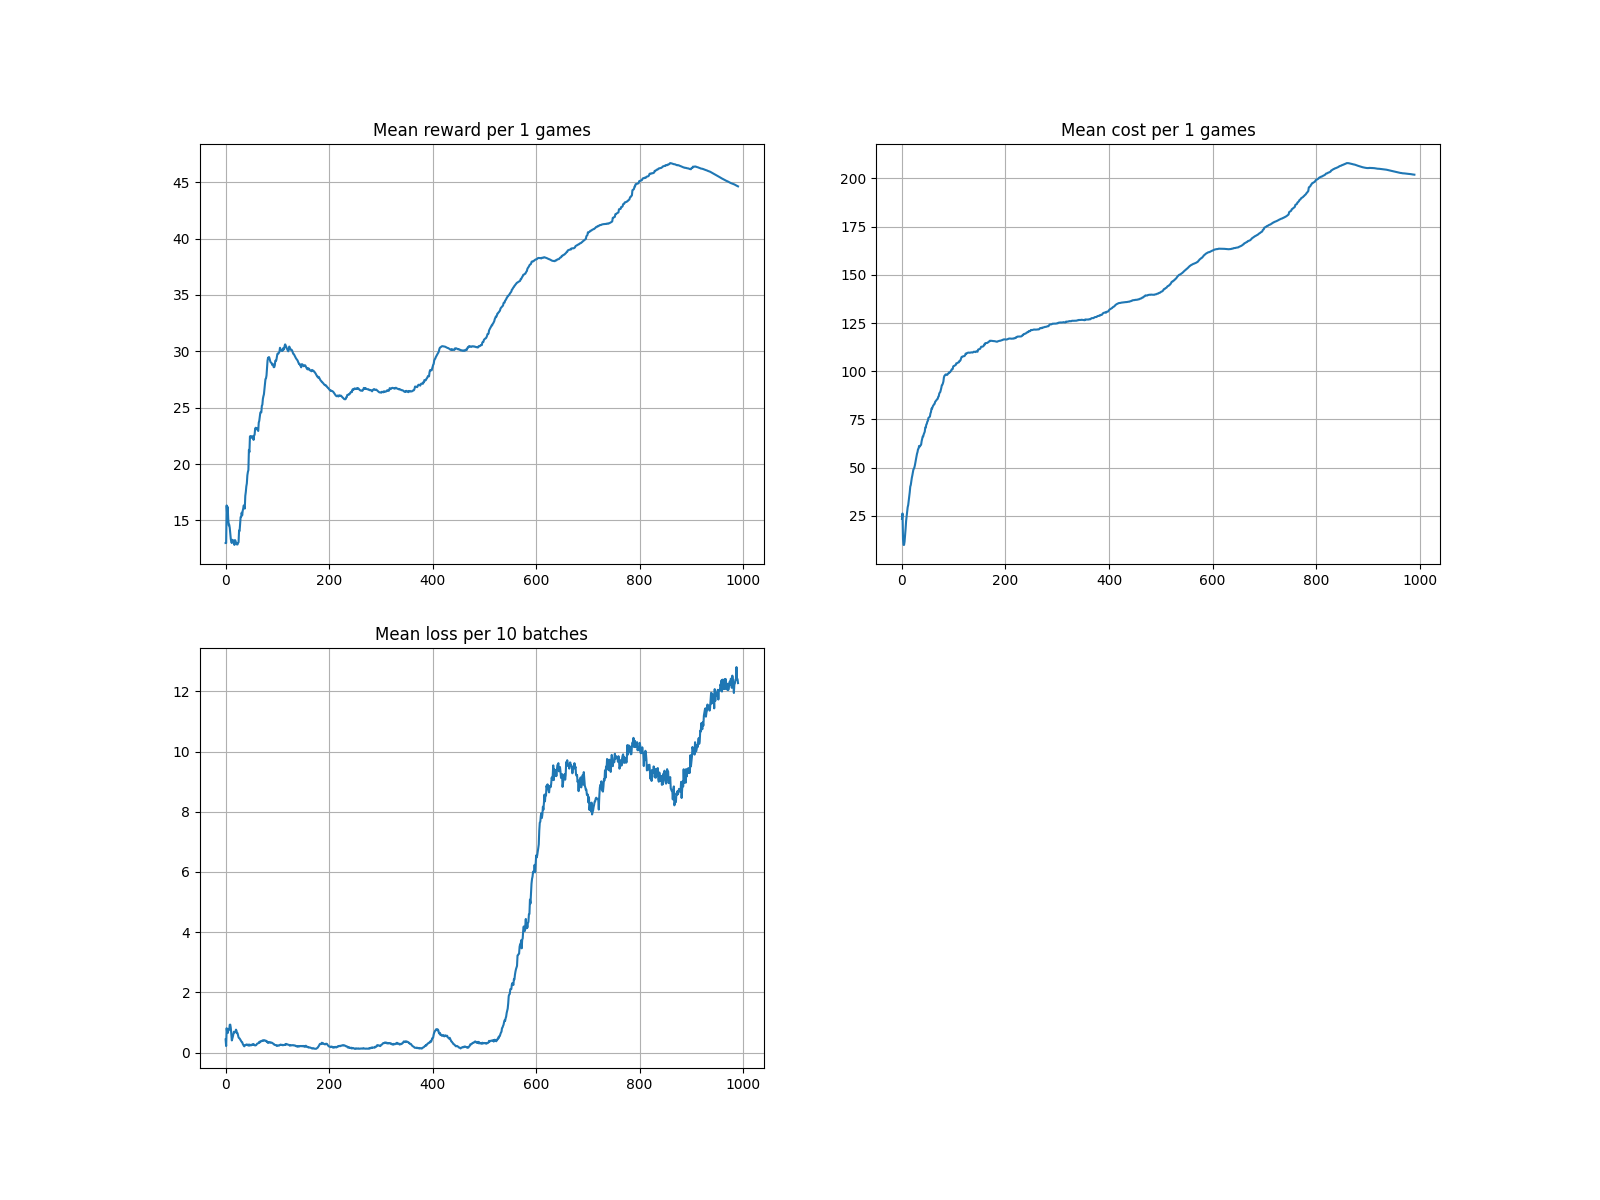
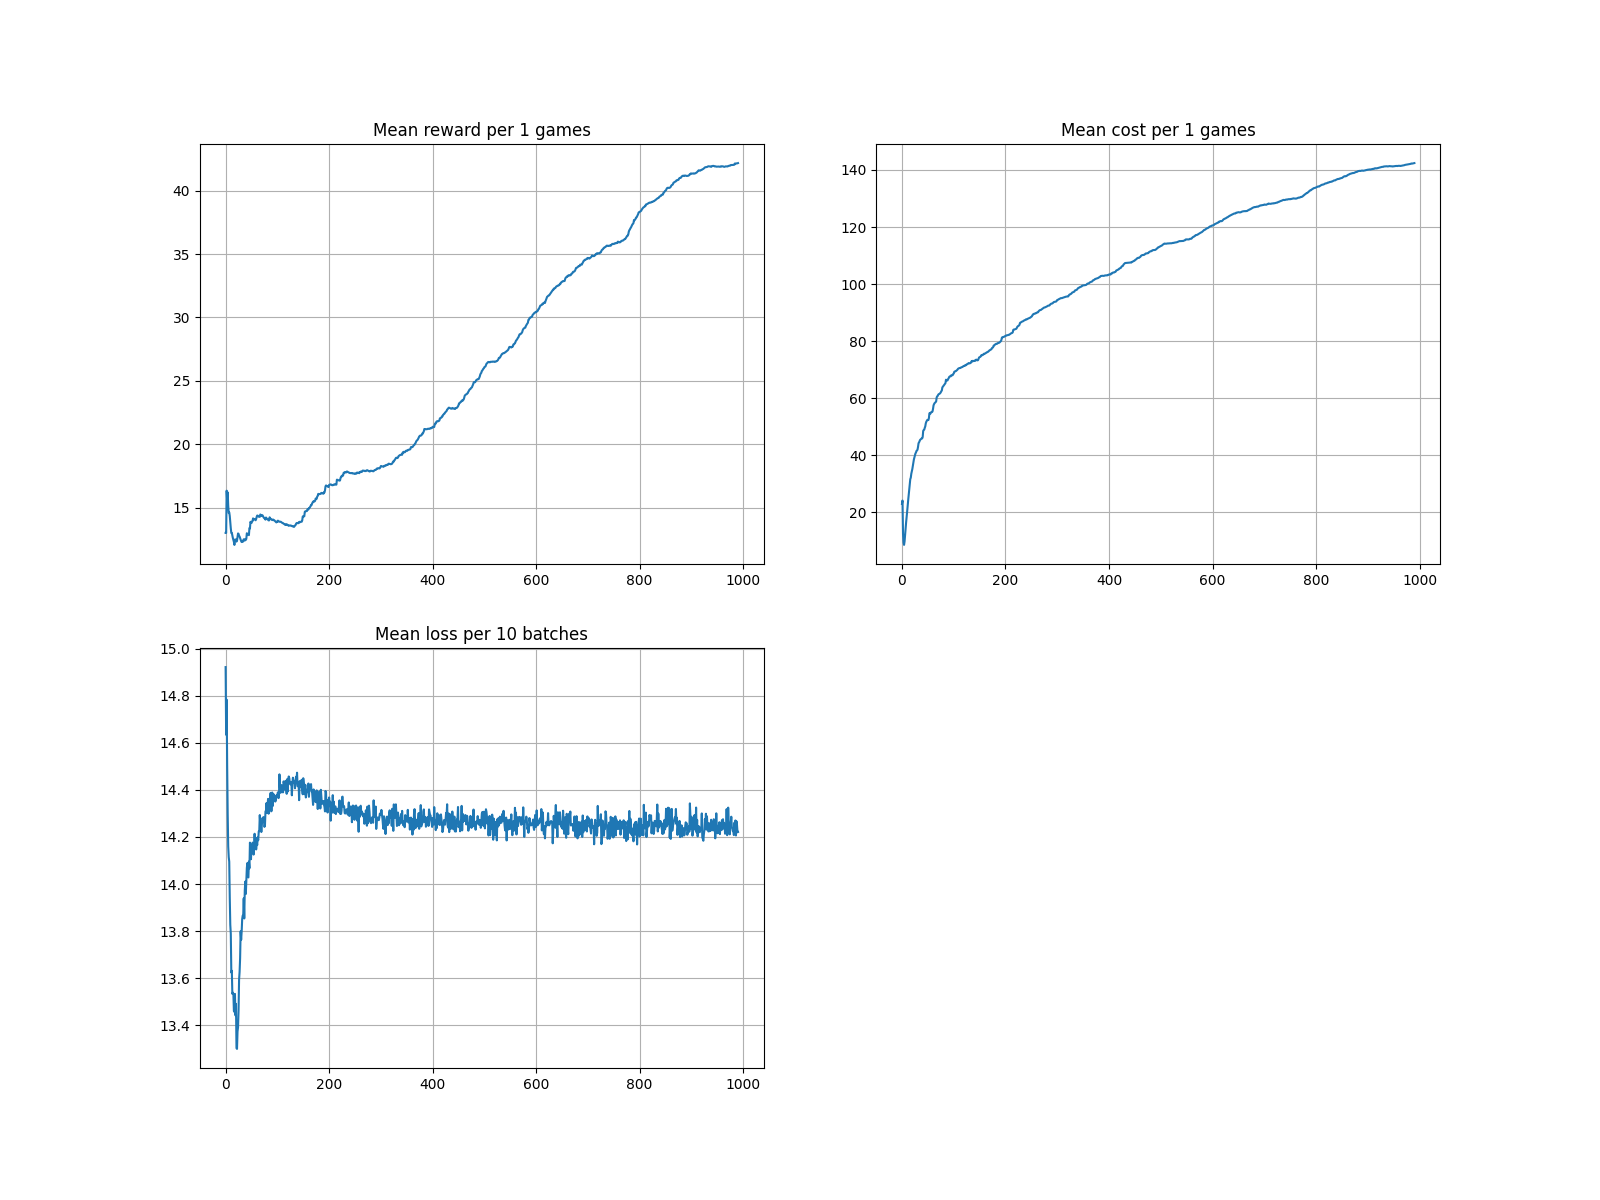
Modifying q(tao) (background prob)

diff --git a/main.py b/main.py
@@ -47,16 +47,20 @@ sample_trajs = []
 D_demo, D_samp = np.array([]), np.array([])
 
 # CONVERTS TRAJ LIST TO STEP LIST
-def preprocess_traj(traj_list, step_list):
+def preprocess_traj(traj_list, step_list, is_Demo = False):
     step_list = step_list.tolist()
     for traj in traj_list:
         states = np.array(traj[0])
-        actions = np.array(traj[1]).reshape(-1, 1)
-        x = np.concatenate((states, actions), axis=1)
+        if is_Demo:
+            probs = np.ones((states.shape[0], 1))
+        else:
+            probs = np.array(traj[1]).reshape(-1, 1)
+        actions = np.array(traj[2]).reshape(-1, 1)
+        x = np.concatenate((states, probs, actions), axis=1)
         step_list.extend(x)
     return np.array(step_list)
 
-D_demo = preprocess_traj(demo_trajs, D_demo)
+D_demo = preprocess_traj(demo_trajs, D_demo, is_Demo=True)
 return_list, sum_of_cost_list = [], []
 for i in range(1000):
     trajs = [policy.generate_session(env) for _ in range(EPISODES_TO_PLAY)]
@@ -72,22 +76,21 @@ for i in range(1000):
         D_s_samp = D_samp[selected_samp]
         D_s_demo = D_demo[selected_demo]
 
+        #D̂ samp ← D̂ demo ∪ D̂ samp
         D_s_samp = np.concatenate((D_s_demo, D_s_samp), axis = 0)
 
-        states, actions = D_s_samp[:,:-1], D_s_samp[:,-1]
-        states_expert, actions_expert = D_s_demo[:,:-1], D_s_demo[:,-1]
+        states, probs, actions = D_s_samp[:,:-2], D_s_samp[:,-2], D_s_samp[:,-1]
+        states_expert, actions_expert = D_s_demo[:,:-2], D_s_demo[:,-1]
 
         # Reducing from float64 to float32 for making computaton faster
         states = torch.tensor(states, dtype=torch.float32)
+        probs = torch.tensor(probs, dtype=torch.float32)
         actions = torch.tensor(actions, dtype=torch.float32)
         states_expert = torch.tensor(states_expert, dtype=torch.float32)
         actions_expert = torch.tensor(actions_expert, dtype=torch.float32)
 
         costs_samp = cost_f(torch.cat((states, actions.reshape(-1, 1)), dim=-1))
         costs_demo = cost_f(torch.cat((states_expert, actions_expert.reshape(-1, 1)), dim=-1))
-
-        logits = policy(states)
-        probs = nn.functional.softmax(logits, -1)
 
         # LOSS CALCULATION FOR IOC (COST FUNCTION)
         loss_IOC = torch.mean(costs_demo) + \

diff --git a/experts/PG.py b/experts/PG.py
@@ -29,15 +29,18 @@ class PG(nn.Module):
         return probs
     
     def generate_session(self, env, t_max=1000):
-        states, actions, rewards = [], [], []
+        states, traj_probs, actions, rewards = [], [], [], []
         s = env.reset()
-
+        q_t = 1.0
         for t in range(t_max):
             action_probs = self.predict_probs(np.array([s]))[0]
             a = np.random.choice(self.n_actions,  p = action_probs)
             new_s, r, done, info = env.step(a)
+            
+            q_t *= action_probs[a]
 
             states.append(s)
+            traj_probs.append(q_t)
             actions.append(a)
             rewards.append(r)
 
